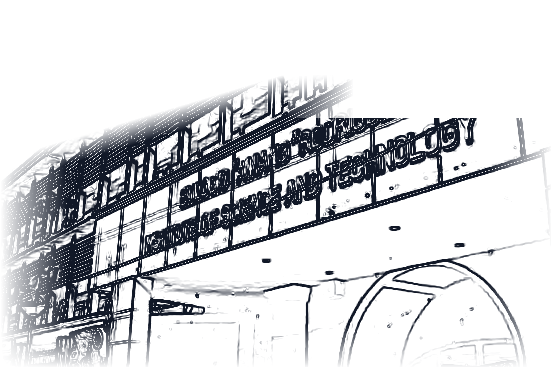
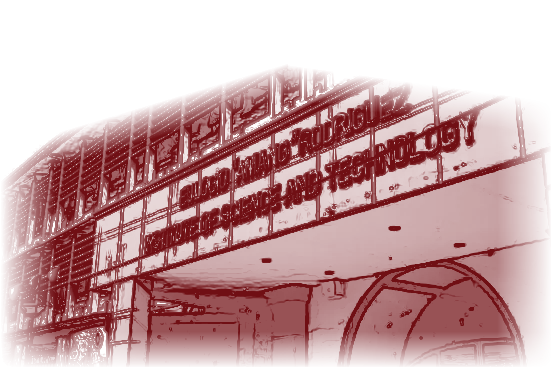
style(landing): enhance EARIST building architectural watermark with maroon tonal fill

diff --git a/src/pages/LandingPage.tsx b/src/pages/LandingPage.tsx
@@ -717,7 +717,7 @@ function EaristBuildingWatermark() {
   return (
     <div
       aria-hidden="true"
-      className="pointer-events-none absolute left-[5%] sm:left-[10%] lg:left-[14%] xl:left-[18%] top-2 sm:top-4 w-[340px] sm:w-[460px] lg:w-[540px] xl:w-[620px] opacity-[0.045] select-none mix-blend-multiply overflow-hidden"
+      className="pointer-events-none absolute left-[5%] sm:left-[10%] lg:left-[14%] xl:left-[18%] top-2 sm:top-4 w-[340px] sm:w-[460px] lg:w-[540px] xl:w-[620px] opacity-[0.11] sm:opacity-[0.13] lg:opacity-[0.14] select-none mix-blend-multiply overflow-hidden"
     >
       <img
         src="/earist-building-watermark.png"
